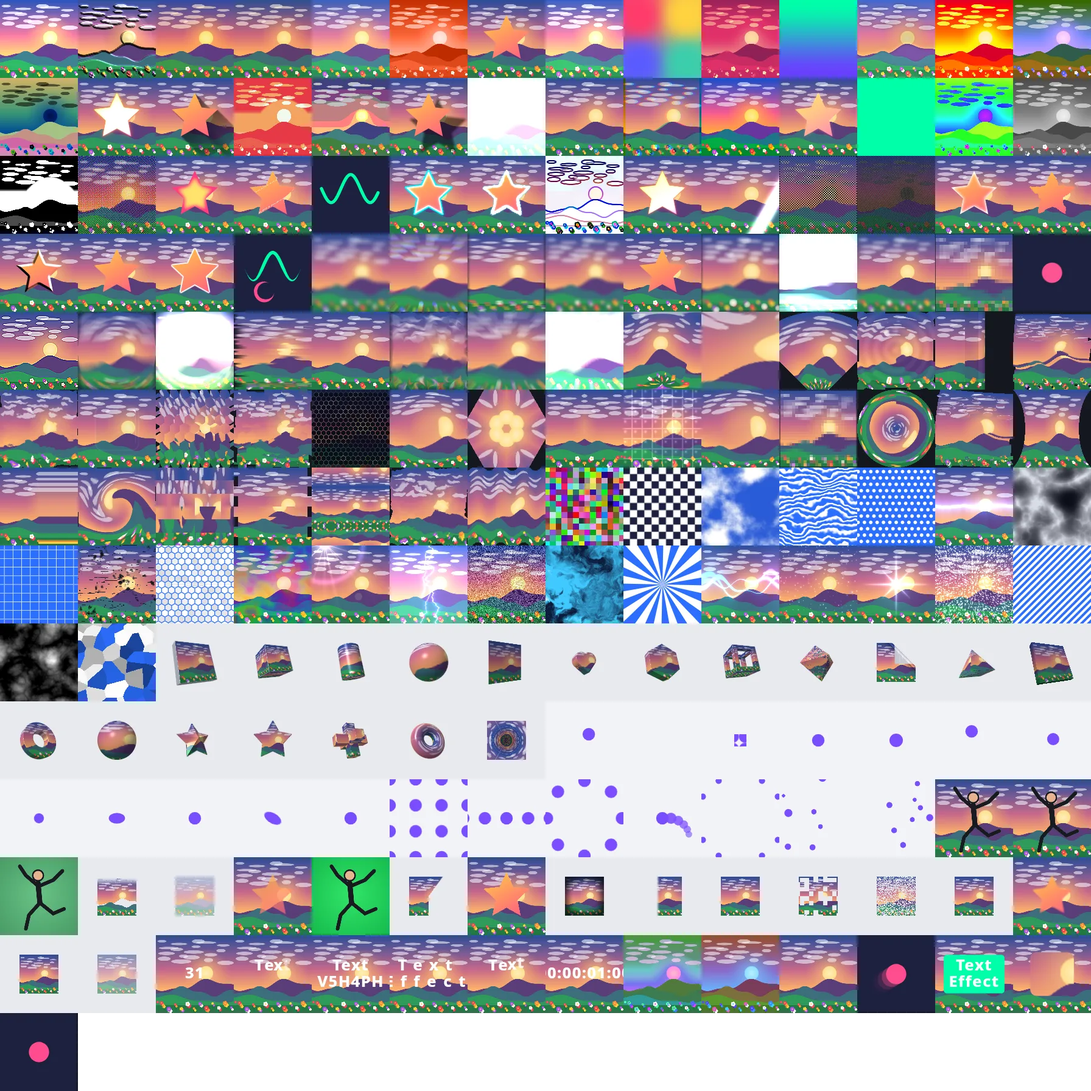
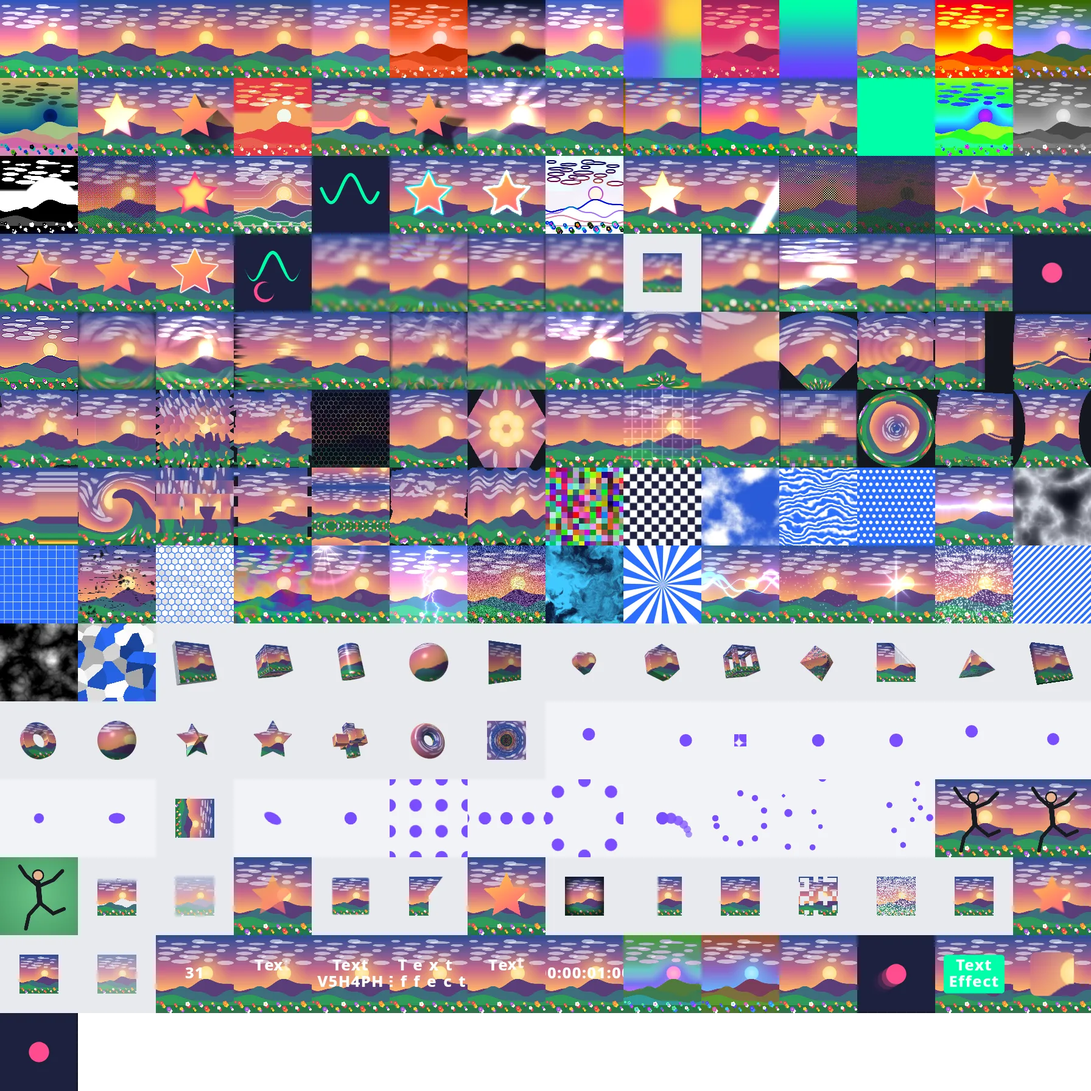
Docs for the effects system (README, DESIGN-alight), rebuilt effect thumbnails

diff --git a/README.md b/README.md
@@ -21,7 +21,7 @@ The light home screen lists your projects (⋯ menu: rename / duplicate / delete
 - **⋯ layer menu** (dropdown under the ⋯ button, like Alight): Save to My Elements (coming soon), Flip Horizontally / Vertically, Fit / Fill / Stretch to Composition Area, Create Clipping Mask (the layer shows only inside the layer below), Convert to Outline (shapes), colour-tag swatches for the timeline clip, plus Center, Hide, Lock, Move up / down, Easing and Rename. Tap outside to close.
 - **Deselect:** a short tap on empty space (preview outside any layer, the dark area around it, empty timeline space) deselects; pans, long presses and pinches don't.
 - **Canvas gestures:** drag to move, use the corner handle to scale and the knob to rotate, pinch with two fingers to scale and rotate, with snapping to centre.
-- **21 effects** (WebGL, original shaders): Gaussian/Motion/Zoom Blur, Neon Glow, Color Adjust (with hue cycling), Duotone, Invert, Posterize, Chromatic Split (pulsing), Glitch, Pixelate, CRT Scanlines, Grain, Vignette, Wave Warp, Swirl, Kaleidoscope, Mirror, and the motion effects Shake, Pulse Scale and Auto Spin. Effects stack, and you can toggle and reorder them.
+- **183 effects in 12 categories** (Color & Light 29, Drawing & Edge 17, Blur 18, Distortion/Warp 27, Procedural 23, 3D 19, Move/Transform 12, Repeat 7, Matte/Mask/Key 11, Opacity/Visibility 7, Text 6, Other 7). They run on a WebGL1 engine (`js/fx/`) with original shaders: pyramid blurs, bloom, true 3D primitives, keying, procedural noise, text animators, and time effects such as motion blur, echo and time quantization. Every parameter can be keyframed, and preview and export render the same. Effects are added from an Add Effect browser with a carousel, category pages, live search with tags, and a preset sheet (Standard Settings, Transition In/Out Fast/normal, plus effect-specific presets). They sit in collapsible cards with a ⋯ menu (Reset to Defaults, Duplicate, Copy/Paste Effect, Effect Details) and ruler + value-box parameters. The Easing Curve panel opens from the graph button (Curve / Physics / Steps presets, draggable bezier handles, a yellow dot at the playhead), and "Keyframes Required" appears when there are fewer than two keys. Alight's Parenting Helper is left out. Projects that used the old effects are migrated.
 - **20 blend modes:** normal, add, screen, lighten, dodge, multiply, darken, burn, overlay, soft/hard light, difference, exclusion, hue, saturation, color, luminosity, clip-to-below, alpha mask and cut-out.
 - **Undo/redo**, with autosave to `localStorage` (media goes in IndexedDB), a projects list, and JSON save/load with media embedded.
 - **Export:** MediaRecorder renders in real time at 480p–4K, 24–60 fps, with a bitrate setting. You get **MP4 (H.264) on Safari** and WebM (or MP4 on recent Chrome) elsewhere, and video-layer audio is mixed in. On iOS you can save to Photos via Share. There is also a PNG export of the current frame.
@@ -38,9 +38,13 @@ Playwright (Chromium) runs in two modes: desktop at 1440×900, and iPhone emulat
 ```
 python3 tests/e2e.py        # full feature suite, desktop + iPhone
 python3 tests/gestures.py   # timeline touch gestures with real touch input (440×956)
+python3 tests/effects.py    # Add Effect browser, search, presets, cards/menu, easing, every effect renders, preview/export parity
+python3 tests/fxcompile.py  # compiles every effect shader
+python3 tests/build_thumbs.py  # rebuilds icons/fx-thumbs.webp + js/fx/thumbs.js + /workspace/kntc-shots/effects/contact-sheet.png
+python3 tests/fx_shots.py   # before/after shots of key effects -> /workspace/kntc-shots/effects
 python3 tests/shots.py      # iPhone screenshots -> /workspace/kntc-shots (+ compare/ vs reference/ if present)
 ```
 The suite covers layer creation, keyframes and interpolation, easing, every effect, blend modes, undo/redo, persistence, JSON round-trip, media import, WebM and MP4 export (checking the output decodes), canvas dragging and the PWA manifest.
 
 ## Structure
-`js/state.js` (model, keyframes, history) · `js/easing.js` · `js/effects.js` (catalogue + WebGL pipeline) · `js/render.js` (compositor) · `js/export.js` · `js/storage.js` · `js/ui.js` · `js/main.js` (UI/timeline/panels)
+`js/state.js` (model, keyframes, history) · `js/easing.js` · `js/fx/*.js` (WebGL engine + effect definitions) · `js/effects.js` (search, presets, transform/text/shape effect hooks, migration) · `js/fxui.js` (Effects panel, browser, Easing Curve) · `js/fxsample.js` (sample scenes for thumbnails/tests) · `js/render.js` (compositor) · `js/export.js` · `js/storage.js` · `js/ui.js` · `js/main.js` (UI/timeline/panels)

diff --git a/DESIGN-alight.md b/DESIGN-alight.md
@@ -134,3 +134,13 @@ Clipboard `kntc.clipboard` and presets `kntc.presets` live in localStorage.
 - Edit Shape: Size ruler (scrolling tick scale, 8pt per 10 units, labels every 50, mint centre tick, momentum) with X / Y boxes.
 - Gear: Project Settings sheet styled like Create (name, ratio chips, Resolution, Frame Rate, Background, Duration, project actions), X closes; changes apply at once.
 - Play bar: ◁◇ / ◇▷ previous / next keyframe buttons appear while a layer is selected.
+
+## Effects (v11 — matched to the usage videos in /workspace/refvid)
+- **Effects panel**: an empty list shows a centred **+ Add Effect**. Each effect is a collapsible card (▸ name · ⋯ · trash). Each param row has a label chip (tap to select it), a ruler (ticks + a mint centre line, momentum flick) and a value box (drag to scrub, tap to type, unit suffix).
+  The left column has ◆ (key the selected param at the playhead) and the graph button (Easing for that param's keyframe segment, or the **Keyframes Required** alert with OK).
+- **⋯ menu**: Reset to Defaults · Duplicate · Copy Effect · Effect Details, then Paste Effect · Turn Off/On · Move Up/Down.
+- **Add Effect** (full-screen sheet): X · title · search. A large carousel (Tiles, Chroma Key, Exposure / Gamma, 360° Reorient, Light Glow), a small row (Auto-Shake, Contour Strips, Oscillate), then a 12-tile category grid. Category pages use a ‹ › header to page and a 3-column thumbnail grid.
+- **Search**: "Type Here to Search" with tag chips (Auto, Camera, Layer Parenting, Property Adjust, Transform). Results update live as you type and list a thumbnail, the name with the match highlighted in mint, and the description.
+- **Preset sheet**: thumbnail, name, description, tag chips, a Guide button and a favourite star, then Standard Settings and `PRESET: XX` rows (TF Transition Out: Fast, NF Transition In: Fast, IN, OU, plus effect-specific rows such as HO/VE for Auto-Shake).
+- **Easing Curve**: a graph with handles, and a bar with ‹ preset name ›. A preset column (Curve / Physics / Steps groups on the left) and a yellow dot that rides the curve at the playhead. Reverse sits in the left column.
+- Knowingly different: Parenting Helper isn't implemented. The thumbnails are our own renders of procedural sample scenes.
